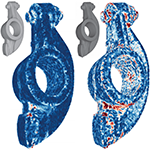
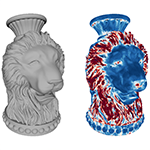
re-design publication

diff --git a/_includes/pubItem.html b/_includes/pubItem.html
@@ -1,9 +1,9 @@
 <div class="row mt-2" style="min-height: 160px;">
-    <div class="col-xl-2 col-lg-2 col-md-3 d-none d-md-block px-0 text-center">
-      <a href="{{pub.url}}"><img class="img-fluid" style="width: 150px;" src="/assets/img/pub/{{pub.slug}}_thumb.png" alt="{{pub.slug}} thumbnail"/></a>
+    <div class="col-auto d-none d-md-block px-0 mr-3">
+      <a href="{{pub.url}}"><img style="width: 120px; height: 120px; object-fit: cover;" src="/assets/img/pub/{{pub.slug}}_thumb.png" alt="{{pub.slug}} thumbnail"/></a>
     </div>
 
-    <div class="col-xl-10 col-lg-10 col-md-9 col-xs-12 px-0">
+    <div class="col px-0">
       <div class="col-12 font-weight-bold"><a href="{{pub.url}}">{{ pub.title }}</a></div>
       <div class="col-12">
         <small>
@@ -19,18 +19,21 @@
           {%- if pub.award -%} &nbsp;&nbsp;&nbsp;<span class="badge badge-secondary">{{pub.award}}</span>{%- endif -%}
         </small>
       </div>
-      <div class="col-12 mt-3">
-        <span>
-        <!-- <a class="badge badge-pill badge-light" href="{{pub.url}}">webpage</a> -->
+      <div class="col-12 mt-2">
         {%- for link in pub.links -%}
-          <a class="badge badge-pill badge-light" href="{{link[1]}}">{{link[0]}}</a>&nbsp;&nbsp;&nbsp;
+          {%- assign lk = link[0] | downcase | strip -%}
+          {%- if lk == "journal" -%}{%- assign li = "fas fa-book-open" -%}
+          {%- elsif lk == "preprint" or lk == "pdf" or lk == "author" -%}{%- assign li = "fas fa-file-pdf" -%}
+          {%- elsif lk == "arxiv" -%}{%- assign li = "ai ai-arxiv" -%}
+          {%- elsif lk == "code" -%}{%- assign li = "fab fa-github" -%}
+          {%- elsif lk == "supplementary" or lk == "supplemental" -%}{%- assign li = "fas fa-plus-square" -%}
+          {%- elsif lk == "slides" -%}{%- assign li = "fas fa-desktop" -%}
+          {%- elsif lk == "video" -%}{%- assign li = "fab fa-youtube" -%}
+          {%- elsif lk == "bib" -%}{%- assign li = "fas fa-quote-right" -%}
+          {%- else -%}{%- assign li = "fas fa-link" -%}
+          {%- endif -%}
+          <a class="mr-3" href="{{ link[1] | strip }}"><i class="{{ li }}"></i>&nbsp;{{ link[0] | strip }}</a>
         {%- endfor -%}
-        <!-- {% if pub.links.doi %}<a class="badge badge-pill badge-light" href="{{pub.links.doi}}">doi</a>{% endif %}
-        {% if pub.links.pdf %}<a class="badge badge-pill badge-light" href="{{pub.links.pdf}}">pdf</a>{% endif %}
-        {% if pub.links.slides %}<a class="badge badge-pill badge-light" href="{{pub.links.slides}}">slides</a>{% endif %}
-        {% if pub.links.code %}<a class="badge badge-pill badge-light" href="{{pub.links.code}}">code</a>{% endif %}
-        {% if pub.links.bib %}<a class="badge badge-pill badge-light" href="{{pub.links.bib}}">bibtex</a>{% endif %} -->
-        </span>
       </div>
     </div>
 </div>

diff --git a/_layouts/paper.html b/_layouts/paper.html
@@ -54,13 +54,19 @@ layout: default
   <div class="row h-100 my-3">
     <div class="col-12 text-center">
       {%- for link in page.links -%}
-        <a class="btn btn-primary btn-sm" href="{{link[1]}}">{{link[0]}}</a>
+        {%- assign lk = link[0] | downcase | strip -%}
+        {%- if lk == "journal" -%}{%- assign li = "fas fa-book-open" -%}
+        {%- elsif lk == "preprint" or lk == "pdf" or lk == "author" -%}{%- assign li = "fas fa-file-pdf" -%}
+        {%- elsif lk == "arxiv" -%}{%- assign li = "ai ai-arxiv" -%}
+        {%- elsif lk == "code" -%}{%- assign li = "fab fa-github" -%}
+        {%- elsif lk == "supplementary" or lk == "supplemental" -%}{%- assign li = "fas fa-plus-square" -%}
+        {%- elsif lk == "slides" -%}{%- assign li = "fas fa-desktop" -%}
+        {%- elsif lk == "video" -%}{%- assign li = "fab fa-youtube" -%}
+        {%- elsif lk == "bib" -%}{%- assign li = "fas fa-quote-right" -%}
+        {%- else -%}{%- assign li = "fas fa-link" -%}
+        {%- endif -%}
+        <a class="mr-3" href="{{ link[1] | strip }}"><i class="{{ li }}"></i>&nbsp;{{ link[0] | strip }}</a>
       {%- endfor -%}
-        <!-- {% if page.links.doi %}<a class="btn btn-primary btn-sm" href="{{page.links.doi}}">doi</a>{% endif %}
-        {% if page.links.pdf %}<a class="btn btn-primary btn-sm" href="{{page.links.pdf}}">pdf</a>{% endif %}
-        {% if page.links.slides %}<a class="btn btn-primary btn-sm" href="{{page.links.slides}}">slides</a>{% endif %}
-        {% if page.links.code %}<a class="btn btn-primary btn-sm" href="{{page.links.code}}">code</a>{% endif %}
-        {% if page.links.bib %}<a class="btn btn-primary btn-sm" href="{{page.links.bib}}">bibtex</a>{% endif %} -->
     </div>
   </div>
   

diff --git a/_pages/publications.html b/_pages/publications.html
@@ -5,14 +5,14 @@ title: Publications
 
 <div class="container h-100">
   <div class=""><h2 class="my-0">Publications</h2></div>
-  {%- for _year_ in (2014..2030) reversed -%}
-    {%- assign pubs = site.publications | where_exp: "pub", "pub.year == _year_" | sort: "year" | reverse -%}
+  {%- for topic in site.data.topics -%}
+    {%- assign pubs = site.publications | where: "topic", topic | sort: "year" | reverse -%}
     {%- if pubs.size > 0 -%}
-        <div class="mt-4 py-0 text-center"><h4 class="py-0">{{_year_}}</h4></div>
-        <hr/>
-        {%- for pub in pubs -%}
-            {% include pubItem.html %}
-        {%- endfor -%}
+      <div class="mt-4 mb-1"><h4>{{ topic }}</h4></div>
+      <hr class="mt-0"/>
+      {%- for pub in pubs -%}
+        {% include pubItem.html %}
+      {%- endfor -%}
     {%- endif -%}
   {%- endfor -%}
 </div>

diff --git a/_publications/2021_knitkit.md b/_publications/2021_knitkit.md
@@ -1,5 +1,6 @@
 ---
 layout: paper
+topic: "Computational Fabrication"
 
 year: 2021
 
@@ -21,12 +22,10 @@ journal: ACM Transactions on Graphics
 conference: Siggraph
 
 links:
-  # doi: AVAILABLE_SOON
-  Journal: https://dl.acm.org/doi/abs/10.1145/3450626.3459790
-  preprint: https://hal.archives-ouvertes.fr/hal-03214570/document
+  journal: https://dl.acm.org/doi/abs/10.1145/3450626.3459790
+  author: https://hal.archives-ouvertes.fr/hal-03214570/document
   supplementary: https://hal.archives-ouvertes.fr/hal-03214570/file/SIGGRAPH_2021_knitkit_supplementary.pdf
   slides: https://docs.google.com/presentation/d/1RFFTDRfC_fxPEUFMMRmzIUHtWq0hTBmT/edit?usp=sharing&ouid=113379064980422751804&rtpof=true&sd=true
-  # code: https://github.com/gnader/KnitKit
   bib: https://gnader.github.io/assets/img/pub/[bib]_2021_knitkit.bib
 
 caption: >

diff --git a/_publications/2023_pointcloud-registration.md b/_publications/2023_pointcloud-registration.md
@@ -1,5 +1,6 @@
 ---
 layout: paper
+topic: "Geometry & Point Clouds"
 
 year: 2023
 
@@ -7,7 +8,7 @@ title: "Local Topology Constrained Point Cloud Registration in Building Informat
 authors:
  - [Yazhou Liu, [0]]
  - [Jiang Hengyu, [0]] 
- - [Georges Nader, [1, 2]] 
+ - [Georges Nader, [1]] 
  - [Wu Zheng, [1]]
  - [Takrit Tanasnitikul, [1]]
  - [Pongsak Lasang, [1]] 
@@ -15,12 +16,11 @@ authors:
 affiliations:
  - School of Computer Science and Engineering, Nanjing University of Science and Technology
  - Panasonic R&D Center Singapore
- - Ubisoft La Forge
 
 journal: IEEE Sensors
 
 links:
-  journal: https://ieeexplore.ieee.org/abstract/document/10363107
+  journal: https://ieeexplore.ieee.org/document/10363107
   bib: https://gnader.github.io/assets/img/pub/[bib]_2023_pointcloud_registration.bib
 
 caption: >

diff --git a/_publications/2016_contrast-sensitivity.md b/_publications/2016_contrast-sensitivity.md
@@ -1,5 +1,6 @@
 ---
 layout: paper
+topic: "Visual Perception"
 year: 2016
 
 title: Visual contrast sensitivity and discrimination for 3D meshes and their applications
@@ -19,7 +20,7 @@ award: Best Paper Award
 
 links:
   journal: https://doi.org/10.1111/cgf.13046
-  preprint: https://hal.inria.fr/hal-01376275/document
+  author: https://hal.inria.fr/hal-01376275/document
   supplementary: https://hal.inria.fr/INRIA/hal-01376275/file/supplementary.pdf
   slides: https://drive.google.com/file/d/15M12_F19HeD2ySHpqx25ePHxkFDl-ahH/view?usp=sharing
   bib: https://gnader.github.io/assets/img/pub/[bib]_2016_contrast-sensitivity.bib

diff --git a/_publications/2016_jnd.md b/_publications/2016_jnd.md
@@ -1,5 +1,6 @@
 ---
 layout: paper
+topic: "Visual Perception"
 
 year: 2015
 
@@ -18,7 +19,7 @@ journal: IEEE transactions on visualization and computer graphics
 
 links:
   journal: http://dx.doi.org/10.1109/TVCG.2015.2507578
-  preprint: https://hal.archives-ouvertes.fr/hal-01242271/document
+  author: https://hal.archives-ouvertes.fr/hal-01242271/document
   bib: https://gnader.github.io/assets/img/pub/[bib]_2016_jnd.bib
 
 caption: >

diff --git a/_publications/2018_ot-transport.md b/_publications/2018_ot-transport.md
@@ -1,5 +1,6 @@
 ---
 layout: paper
+topic: "Geometry & Point Clouds"
 
 year: 2018
 
@@ -15,7 +16,7 @@ conference: Siggraph Asia
 
 links:
   journal: http://dx.doi.org/10.1145/3272127.3275091
-  preprint: https://hal.inria.fr/hal-01884157/file/instant_ot_author_version_comp.pdf
+  author: https://hal.inria.fr/hal-01884157/file/instant_ot_author_version_comp.pdf
   slides: https://drive.google.com/file/d/1PYET7NeGyqgLe-2MgF0rWVA4zPax8RrP/view?usp=sharing
   code: https://github.com/ggael/otmap
   bib: https://gnader.github.io/assets/img/pub/[bib]_2018_ot-transport.bib

diff --git a/_publications/2024_neural-textures.md b/_publications/2024_neural-textures.md
@@ -1,5 +1,6 @@
 ---
 layout: paper
+topic: "Neural Rendering"
 
 year: 2024
 
@@ -18,7 +19,7 @@ conference: Eurographics
 
 links:
   journal: https://onlinelibrary.wiley.com/doi/abs/10.1111/cgf.15013
-  arxiv: https://arxiv.org/abs/2311.16121
+  author: https://arxiv.org/abs/2311.16121
   supplementary : https://hal.science/hal-04255874v2/preview/supplementary_material.pdf
   bib: https://gnader.github.io/assets/img/pub/[bib]_2024_neural_textures.bib 
 

diff --git a/_publications/2014_pointcloud-editing.md b/_publications/2014_pointcloud-editing.md
@@ -1,5 +1,6 @@
 ---
 layout: paper
+topic: "Geometry & Point Clouds"
 year: 2014
 
 title: Adaptive multi‐scale analysis for point‐based surface editing

diff --git a/_publications/2016_thesis.md b/_publications/2016_thesis.md
@@ -1,5 +1,6 @@
 ---
 layout: paper
+topic: "Thesis"
 year: 2016
 
 title: Evaluating the visibility threshold for a local geometric distortion on a 3D mesh and its applications

diff --git a/_publications/2026_hybrid-material.md b/_publications/2026_hybrid-material.md
@@ -1,5 +1,6 @@
 ---
 layout: paper
+topic: "Neural Rendering"
 
 year: 2026
 